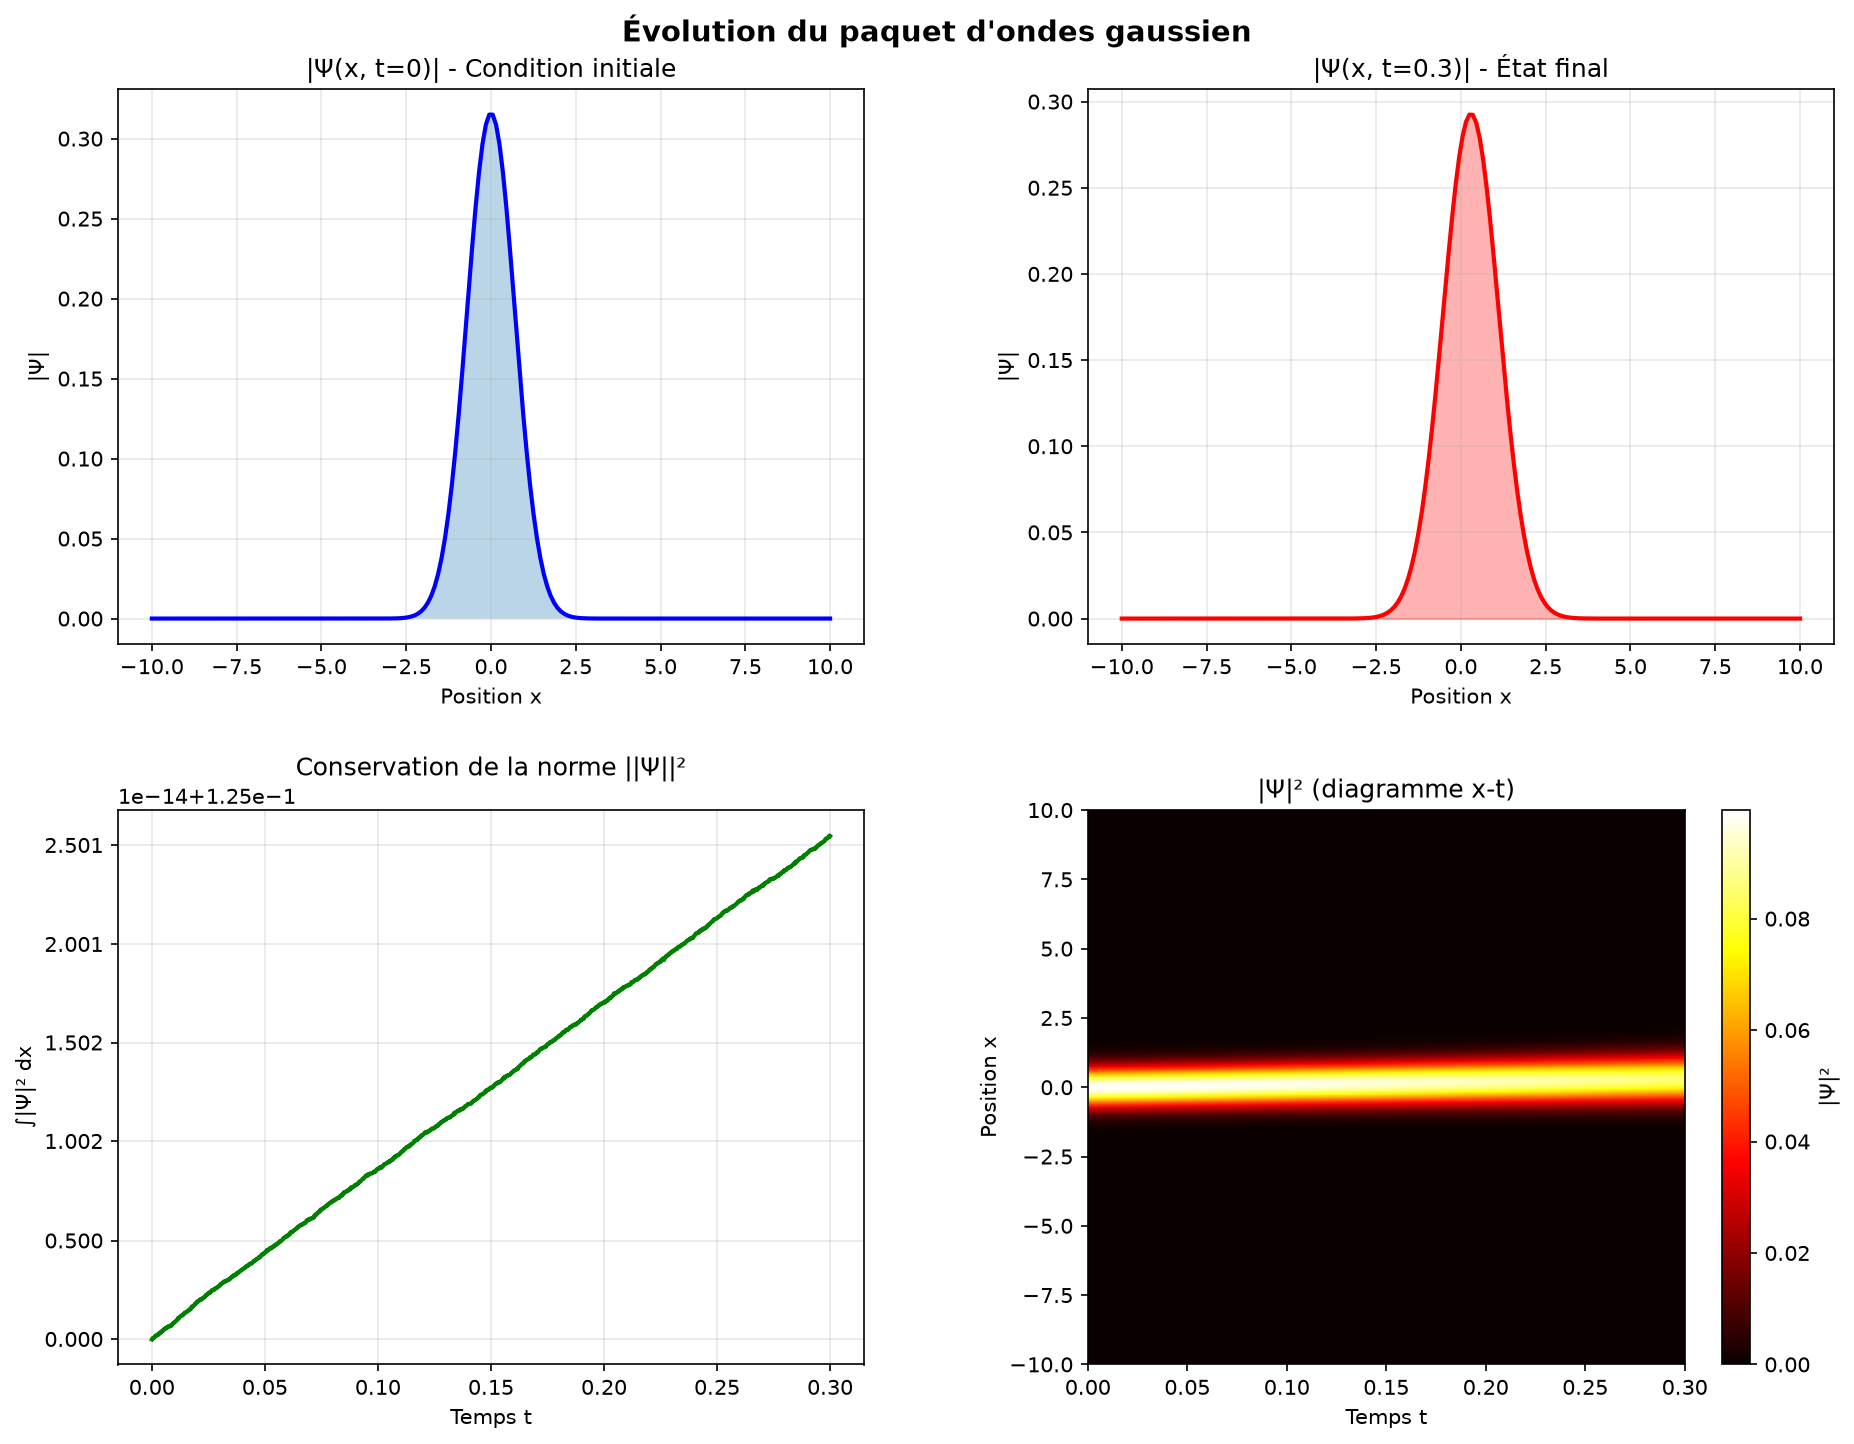
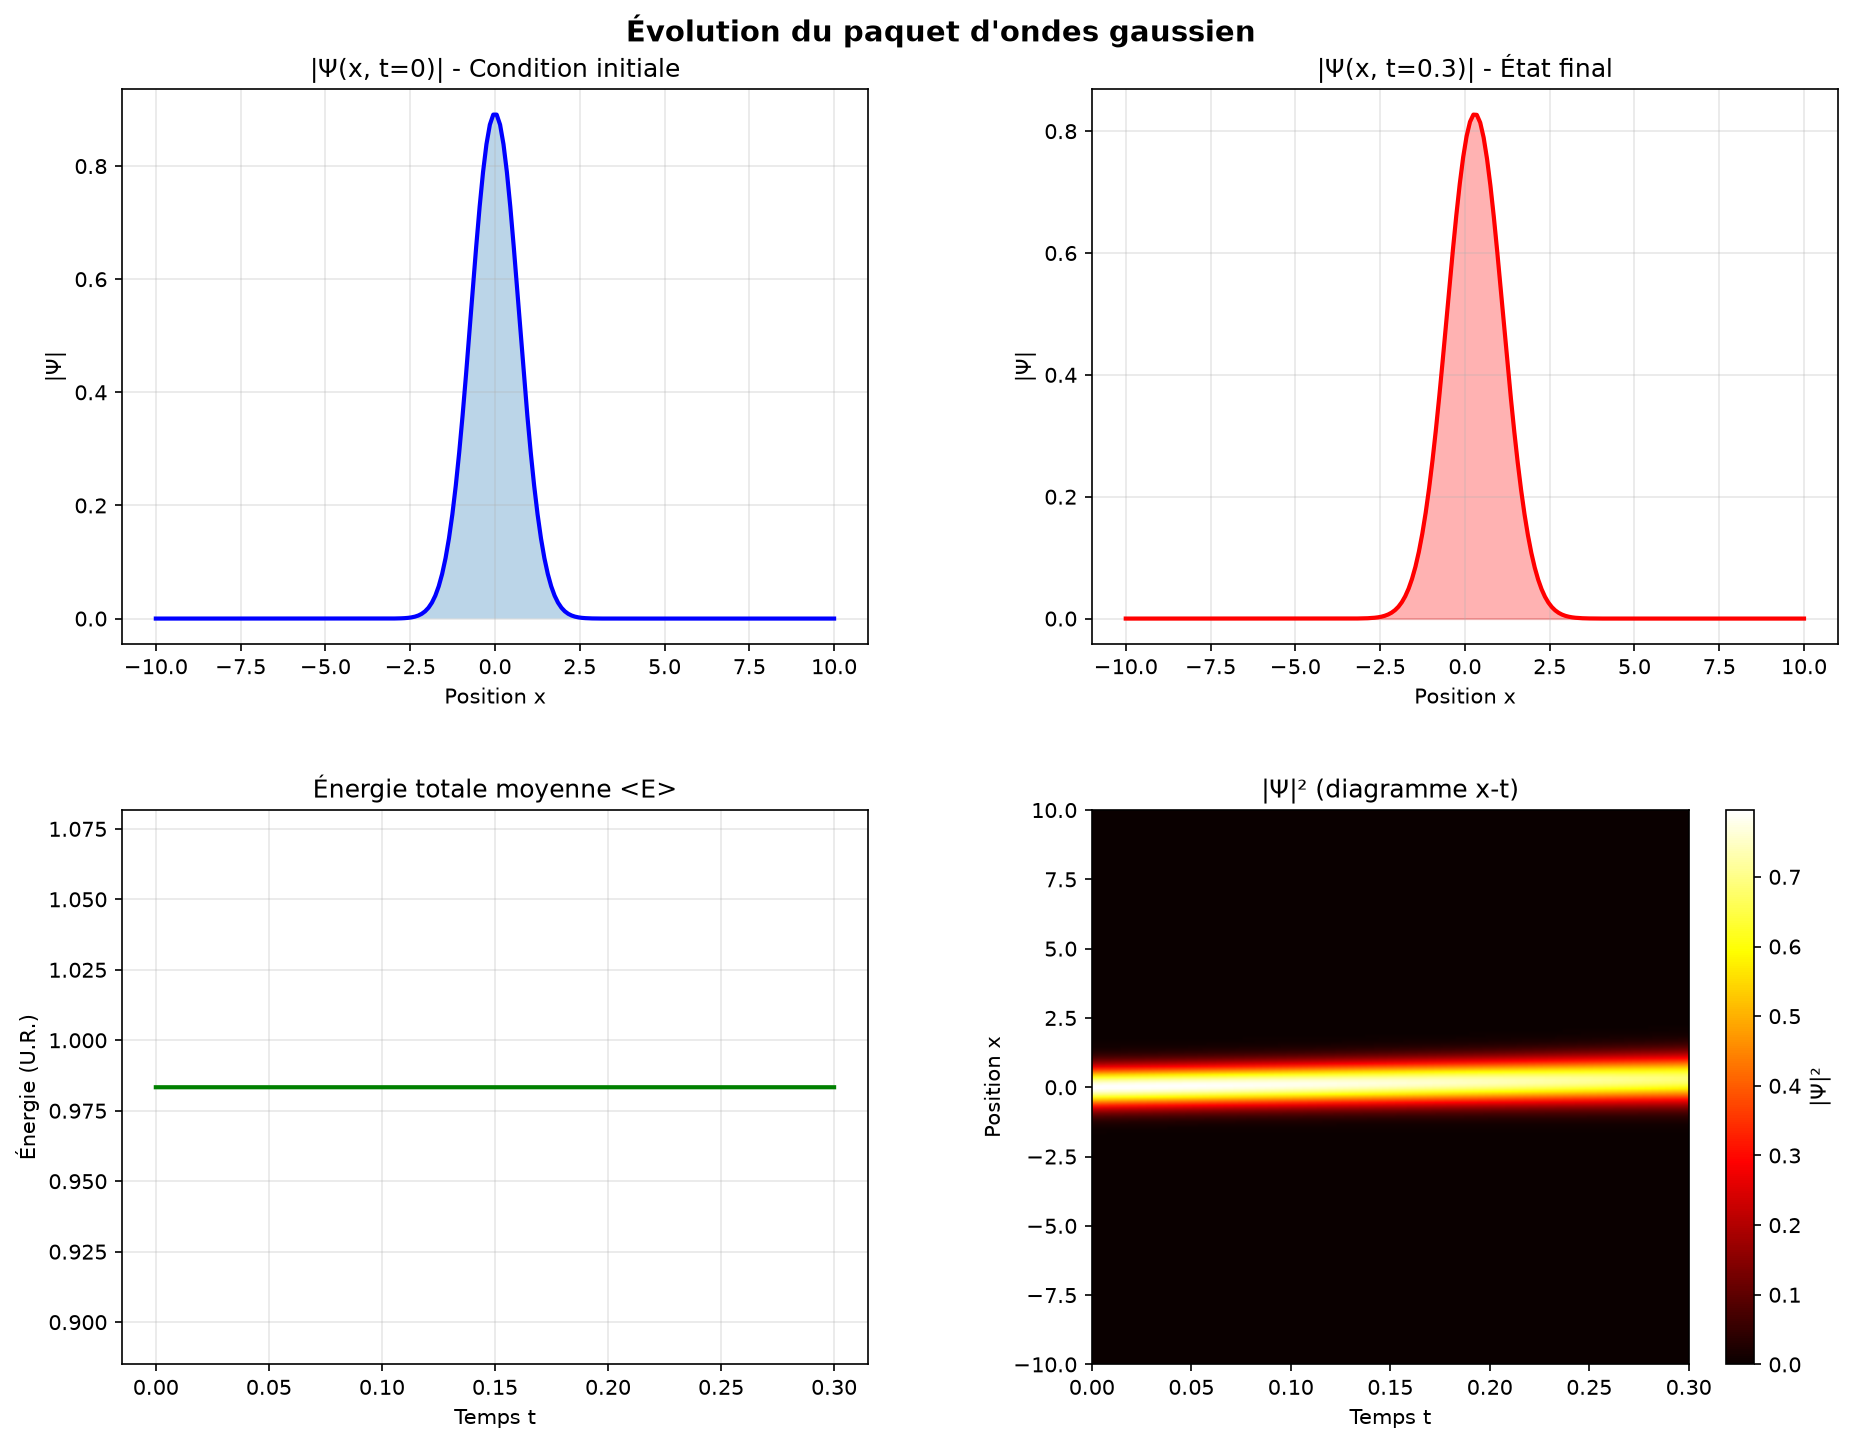
Update onde_gaussienne.py: refine parameters, add energy verification, and adjust plots for energy conservation

diff --git a/onde_gaussienne.py b/onde_gaussienne.py
@@ -5,13 +5,15 @@ from scipy.sparse import diags
 from scipy.sparse.linalg import spsolve
 
 #        QUESTION 2     
-nx = 200                # Réduit
-nt = 1500                # Augmenté mais pas trop
-t_max = 0.3             # Temps plus court
+
+# Initialisations des parametres
+nx = 200                
+nt = 1500                
+t_max = 0.3             
 
 
-k0  = 1.0               # Réduit (paquet moins énergétique)
-a = 1.0             # Plus large
+k0  = 1.0               
+a = 1.0                 
 m = 1.0
 
 print(f"Paramètres du paquet d'ondes :")
@@ -29,7 +31,7 @@ print(f"\nEspace : Δx = {dx:.6f}")
 print(f"Temps : Δt = {dt:.6f}")
 
 # Paquet d'onde gaussien
-prefactor = (1 / (8 * np.pi))**(3/4) * np.sqrt(4 * np.pi * m * a / (m * a**2)) #Préfaceur
+prefactor = (1 / (8 * np.pi**3))**(1/4) * np.sqrt(4 * np.pi * m * a / (m * a**2)) #Préfaceur
 # Equation divisé en deux sinon ceci aurait été trop long a écrire
 psi_0 = prefactor * np.exp(1j * k0 * x - x**2 / a**2)
 
@@ -40,7 +42,7 @@ psi[:, 0] = psi_0
     ##  QUESTION 4 
 hbar = 1.0
 
-V0 = 0.0
+V0 = 5.0
 
 # Vérifier stabilité
 stability = hbar * dt / (dx**2)
@@ -81,15 +83,28 @@ print("✓ Intégration terminée\n")
 
 # VÉRIFICATIONS 
 
+## Verification Energetique
+energy = np.zeros(nt)
+for n in range(nt):
+    # Dérivée spatiale via gradient numérique
+    dpsi_dx = np.gradient(psi[:, n], dx)
+    # Intégrale de l'énergie cinétique moyenne : ∫ (hbar² / 2m) * |dΨ/dx|² dx
+    energy[n] = np.sum((hbar**2 / (2 * m)) * np.abs(dpsi_dx)**2) * dx
 
+print("Conservation de l'énergie :")
+print(f"  E(t=0) = {energy[0]:.6f}")
+print(f"  E(t=T) = {energy[-1]:.6f}")
+print(f"  Erreur d'énergie = {abs(energy[-1] - energy[0])/energy[0]*100:.4f}%")
+
+## Vérification de la Norme 
 norm = np.array([np.sum(np.abs(psi[:, n])**2) * dx for n in range(nt)])
-
 print("Conservation de la norme :")
 print(f"  ||Ψ(t=0)||² = {norm[0]:.6f}")
 print(f"  ||Ψ(t=T)||² = {norm[-1]:.6f}")
 print(f"  Erreur = {abs(norm[-1] - norm[0])/norm[0]*100:.4f}%")
 
-# ⚠️ Vérifier si la simulation a divergé
+
+#  Vérifier si la simulation a divergé
 if np.any(np.isnan(psi)) or np.any(np.isinf(psi)):
     print("\n❌ ERREUR : La simulation a divergé (NaN ou Inf détectés)")
     print("   Réduisez nt ou augmentez nx")
@@ -122,16 +137,17 @@ axes[0, 1].set_xlabel("Position x")
 axes[0, 1].set_ylabel("|Ψ|")
 axes[0, 1].grid(alpha=0.3)
 
-# Plot 3
-axes[1, 0].plot(t, norm, 'g-', linewidth=2)
-axes[1, 0].set_title("Conservation de la norme ||Ψ||²")
+# Plot 3 - MODIFIÉ POUR L'ÉNERGIE
+axes[1, 0].plot(t, energy, 'g-', linewidth=2)
+axes[1, 0].set_title("Énergie totale moyenne <E>")
 axes[1, 0].set_xlabel("Temps t")
-axes[1, 0].set_ylabel("∫|Ψ|² dx")
+axes[1, 0].set_ylabel("Énergie (U.R.)")
+# Ajustement de l'axe Y pour bien voir que l'énergie est constante (évite une échelle trop aplatie)
+axes[1, 0].set_ylim(energy[0] * 0.9, energy[0] * 1.1)
 axes[1, 0].grid(alpha=0.3)
 
 # Plot 4 - Heatmap (CORRIGÉE)
 density = np.abs(psi)**2
-# ⚠️ IMPORTANT : Utiliser vmin et vmax pour éviter les problèmes de normalisation
 vmax = np.max(density)
 im = axes[1, 1].imshow(density, aspect='auto', origin='lower',
                        extent=[0, t_max, x_min, x_max], cmap='hot',
@@ -142,7 +158,6 @@ axes[1, 1].set_ylabel("Position x")
 cbar = plt.colorbar(im, ax=axes[1, 1])
 cbar.set_label("|Ψ|²")
 
-# ⚠️ Utiliser subplots_adjust() au lieu de tight_layout()
 plt.subplots_adjust(left=0.08, right=0.96, top=0.93, bottom=0.08, hspace=0.3, wspace=0.3)
 
 plt.savefig("onde_gaussienne.png", dpi=150, bbox_inches='tight')